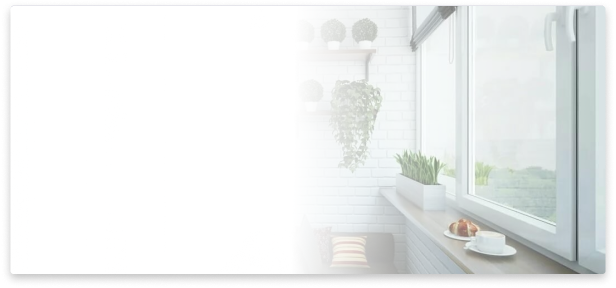
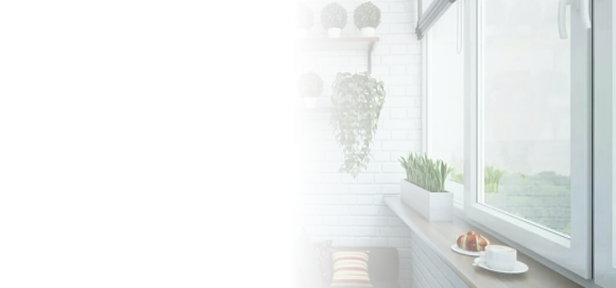
Закончил верстать карточки

diff --git a/index.html b/index.html
@@ -67,59 +67,72 @@
                     <!-- Карточка №1-->
 
                     <li class="card">
-                        <div class="card__logo__text">
-                            <img src="/img/vectors/window.svg" alt="window">
-                            <h3 class="card__title">Установка пластиковых окон</h3>
+                        <img src="/img/windowCard.png" alt="Пластиковые окна" class="card__background">
+                        <div class="z__index">
+                            <div class="card__logo__text">
+                                <img src="/img/vectors/window.svg" alt="window">
+                                <h3 class="card__title">Установка пластиковых окон</h3>
+                            </div>
+    
+                            <p class="card__content">
+                                Устанавливаем пластиковые окна Rehau
+                                от проверенного производителя
+                                с гарантией качества
+                            </p>
                         </div>
-
-                        <p class="card__content">
-                            Устанавливаем пластиковые окна Rehau
-                            от проверенного производителя
-                            с гарантией качества
-                        </p>
+                        
                     </li>
 
                     <!-- Карточка №2-->
 
                     <li class="card">
-                        <div class="card__logo__text">
-                            <img src="/img/vectors/balcony.svg" alt="balcony">
-                            <h3 class="card__title">Остекление балконов и лоджий</h3>
+                        <img src="/img/balconyCard.png" alt="Балкон" class="card__background">
+                        <div class="z__index">
+                            <div class="card__logo__text">
+                                <img src="/img/vectors/balcony.svg" alt="balcony">
+                                <h3 class="card__title">Остекление балконов и лоджий</h3>
+                            </div>
+                            <p class="card__content">
+                                Занимаемся остеклением и отделкой
+                                балконов и лоджий. Теплое и холодное остекление, изготовление выносов и крыш.
+                                Беремся за сложные объекты
+                            </p>
                         </div>
-                        <p class="card__content">
-                            Занимаемся остеклением и отделкой
-                            балконов и лоджий. Теплое и холодное остекление, изготовление выносов и крыш.
-                            Беремся за сложные объекты
-                        </p>
                     </li>
 
                     <!-- Карточка №3-->
 
                     <li class="card">
-                        <div class="card__logo__text">
-                            <img src="/img/vectors/cottage.svg" alt="cottage">
-                            <h3 class="card__title">Остекление коттеджей и дач</h3>
+                        <img src="/img/cottageCard.png" class="card__background" alt="Коттеджи и дачи">
+                        <div class="z__index">
+                            <div class="card__logo__text">
+                                <img src="/img/vectors/cottage.svg" alt="cottage">
+                                <h3 class="card__title">Остекление коттеджей и дач</h3>
+                            </div>
+                            <p class="card__content">
+                                Остекление и отделка под ключ:
+                                от коттеджей и дач до террас
+                                и беседок. Выделяем личного
+                                технолога под каждый объект
+                            </p>
                         </div>
-                        <p class="card__content">
-                            Остекление и отделка под ключ:
-                            от коттеджей и дач до террас
-                            и беседок. Выделяем личного
-                            технолога под каждый объект
-                        </p>
                     </li>
 
                     <!-- Карточка №4-->
                     <li class="card">
-                        <div class="card__logo__text">
-                            <img src="/img/vectors/corporat.svg" alt="coprorate">
-                            <h3 class="card__title">Остекление корпоративных объектов</h3>
+                        <img src="/img/corporatCard.png" class="card__background" alt="Корпоративные объекты">
+                        <div class="z__index">
+                            <div class="card__logo__text">
+                                <img src="/img/vectors/corporat.svg" alt="coprorate">
+                                <h3 class="card__title">Остекление корпоративных объектов</h3>
+                            </div>
+                            <p class="card__content">
+                                Реализуем сложные проекты
+                                по остеклению торговых центров,
+                                ресторанов, производственных помещений
+                                и офисов
+                            </p>
                         </div>
-                        <p class="card__content">
-                            Реализуем сложные проекты
-                            по остеклению торговых центров,
-                            ресторанов, производственных помещений
-                            и офисов
-                        </p>
                     </li>
                 </ul>
             </div>

diff --git a/css/services.css b/css/services.css
@@ -1,11 +1,15 @@
 /* Стили для всего блока */
+
 .services {
-    width: 1200px;
+    max-width: 1200px;
     margin: 0 auto;
+
 }
 
 
+
 /* Стили для заголовка <h2>  */
+
 .services__title {
     font-family: 'Roboto';
     font-style: normal;
@@ -22,9 +26,16 @@
 }
 
 /* Стили для контейнера с карточками */
-.services__cards {}
+
+.services__cards {
+
+}
+
+
+
 
 /*  Стили для списка <ul> */
+
 .services__info {
     margin-top: 48px;
     display: flex;
@@ -32,27 +43,57 @@
     justify-content: space-between;
 }
 
+
+
 /* Стили для самой карточки */
+
 .card {
+
     border-radius: 3px;
     width: 595px;
+    
     height: 268px;
     margin-top: 10px;
     padding: 52px 32px 52px 52px;
     display: flex;
     flex-direction: column;
     justify-content: space-between;
+    position: relative;
+    background: linear-gradient(90.45deg, #FFFFFF 47.56%, rgba(255, 255, 255, 0) 98.81%);
+    border-radius: 3px;
 }
 
+
+
+/* Фон для карточки */
+
+.card__background {
+    position: absolute;
+    width: 100%;
+    height: 100%;
+    left: 0;
+    top: 0;
+
+}
+
+.z__index {
+    z-index: 1;
+}
+
+
+
 /* Стили для контейнера Логотип+Название услуги */
+
 .card__logo__text {
     display: flex;
     align-items: center;
+    max-width: 420px;
 }
 
 
 
 /* Стили для <li> заголовков <h3> карточек */
+
 .card__title {
     font-family: 'Roboto';
     font-style: normal;
@@ -63,6 +104,9 @@
     color: #2F2F51;
     margin-left: 20px;
 }
+
+
+
 
 /* Стили для текста карточки */
 
@@ -78,5 +122,12 @@
     margin-top: 20px;
 
     width: 300px;
+   
     height: 75px;
+
+
+}
+
+body {
+    background: #F2F2F2;
 }

diff --git a/css/reset.css b/css/reset.css
@@ -38,11 +38,11 @@ img {
 }
 
 
-
+/*
 * {
     border: 1px solid teal;
 }
-
+*/
 * {
     box-sizing: border-box;
 }
